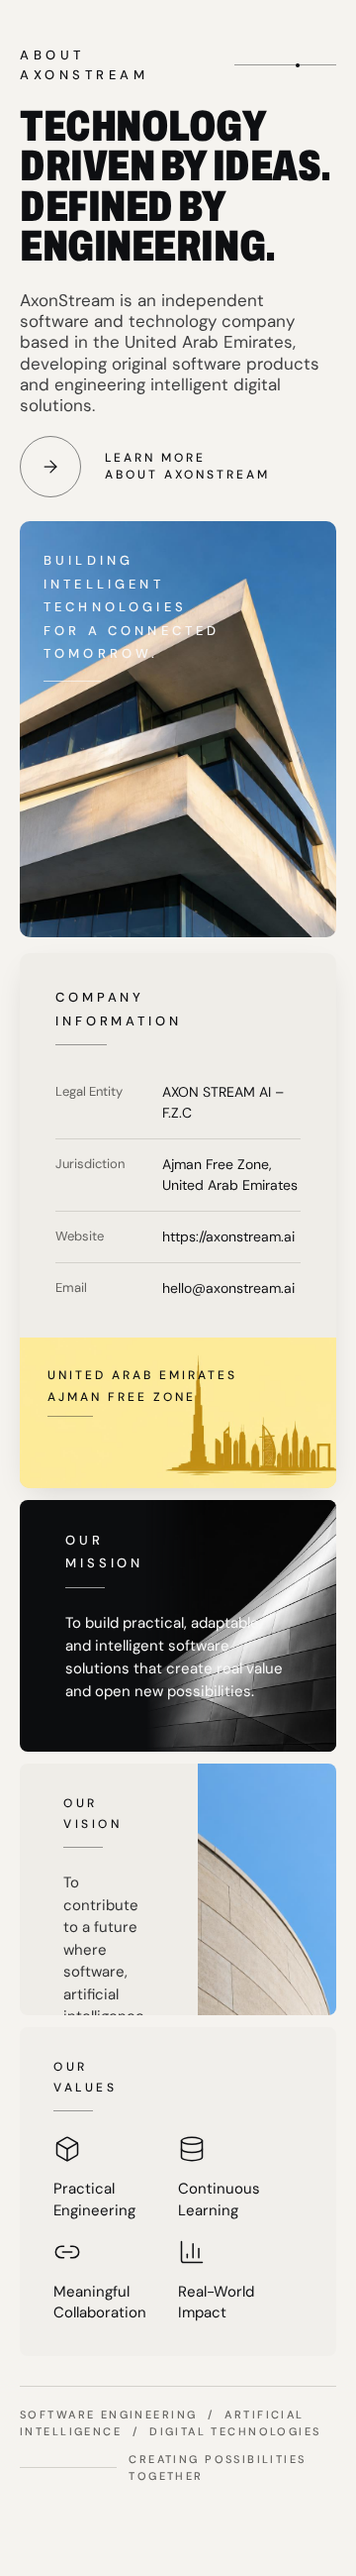
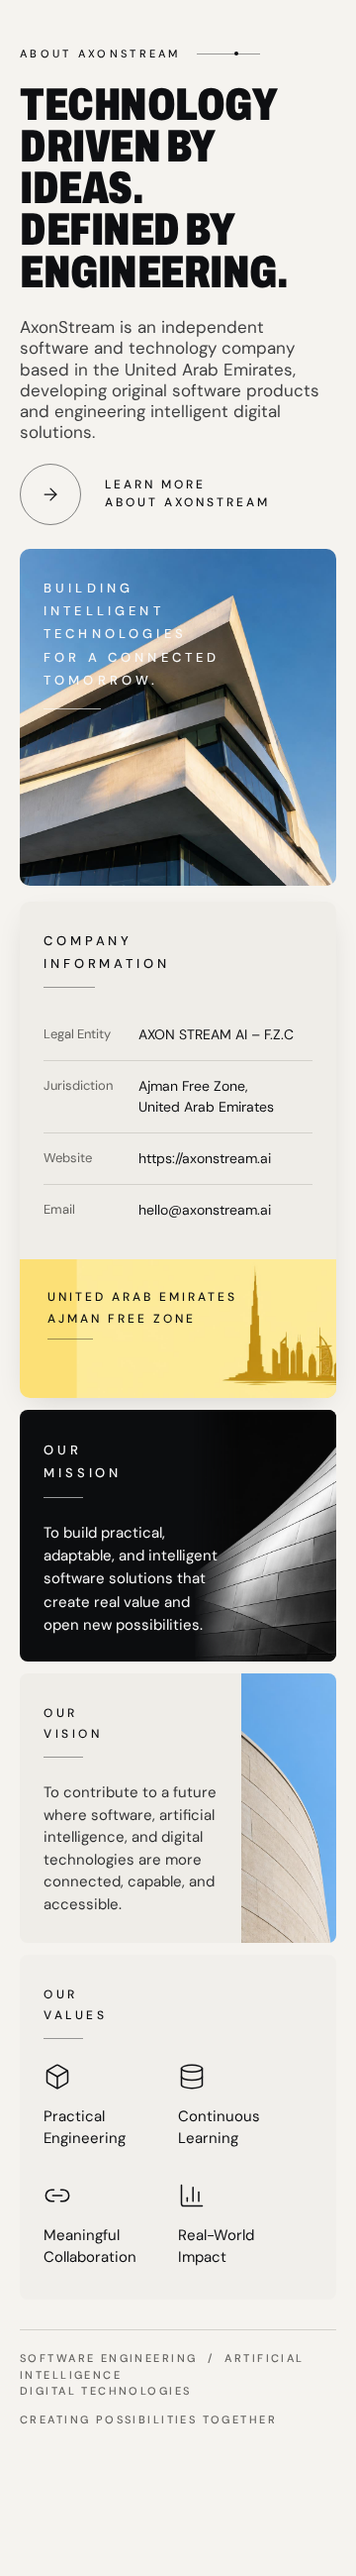
Changes

diff --git a/src/routes/index.tsx b/src/routes/index.tsx
@@ -45,9 +45,9 @@ function Index() {
         <div className="grid gap-6 lg:grid-cols-[655px_1fr]">
           <div className="pt-[28px] lg:pl-[45px]">
             <div className="flex items-center gap-4">
-              <span className="eyebrow text-[13px] tracking-[0.35em]">About AxonStream</span>
-              <span className="relative block h-px w-[105px] bg-foreground/40">
-                <span className="absolute left-[62px] -top-[1.5px] h-1 w-1 rounded-full bg-foreground" />
+              <span className="eyebrow text-[11px] sm:text-[13px] tracking-[0.3em] sm:tracking-[0.35em] whitespace-nowrap">About AxonStream</span>
+              <span className="relative block h-px w-[64px] sm:w-[105px] shrink-0 bg-foreground/40">
+                <span className="absolute left-[38px] sm:left-[62px] -top-[1.5px] h-1 w-1 rounded-full bg-foreground" />
               </span>
             </div>
             <h1 className="font-display mt-[22px] text-[46px] min-[400px]:text-[52px] sm:text-[76px] leading-[0.92] uppercase">
@@ -65,7 +65,7 @@ function Index() {
           </div>
 
           <div className="relative lg:pr-[0px]">
-            <div className="relative overflow-hidden rounded-[10px] lg:mr-[209px] h-[420px] lg:h-[547px]">
+            <div className="relative overflow-hidden rounded-[10px] lg:mr-[209px] h-[340px] sm:h-[420px] lg:h-[547px]">
               <img src={heroArch} alt="Angular modern architecture" width={1152} height={1088} className="h-full w-full object-cover" />
               <div className="absolute left-6 top-[28px] text-surface-dark-foreground">
                 <p className="eyebrow text-[13px] tracking-[0.32em] leading-[1.8]">Building<br />intelligent<br />technologies<br />for a connected<br />tomorrow.</p>
@@ -73,20 +73,20 @@ function Index() {
               </div>
             </div>
             <div className="mt-4 lg:mt-0 lg:absolute lg:right-0 lg:top-[28px] lg:w-[378px] rounded-[10px] overflow-hidden shadow-card">
-              <div className="bg-card px-9 pt-[33px] pb-6">
+              <div className="bg-card px-6 sm:px-9 pt-[28px] sm:pt-[33px] pb-6">
                 <p className="eyebrow text-[13px] tracking-[0.3em] leading-[1.8]">Company<br />information</p>
                 <Rule className="mt-3 w-[52px]" />
                 <dl className="mt-[22px]">
                   {info.map(([k, v], i) => (
-                    <div key={k} className={`grid grid-cols-[108px_1fr] py-[15px] ${i < info.length - 1 ? "border-b border-border" : ""}`}>
+                    <div key={k} className={`grid grid-cols-[96px_1fr] sm:grid-cols-[108px_1fr] py-[15px] ${i < info.length - 1 ? "border-b border-border" : ""}`}>
                       <dt className="text-[13px] text-muted-foreground">{k}</dt>
                       <dd className="text-[14px] whitespace-pre-line leading-[1.5]">{v}</dd>
                     </div>
                   ))}
                 </dl>
               </div>
-              <div className="relative h-[152px] bg-highlight overflow-hidden">
-                <img src={skyline} alt="" loading="lazy" className="absolute inset-0 h-full w-full object-cover object-right-bottom" />
+              <div className="relative h-[140px] sm:h-[152px] bg-highlight overflow-hidden">
+                <img src={skyline} alt="" loading="lazy" className="absolute inset-0 h-full w-full object-cover object-right-bottom translate-x-[18%] sm:translate-x-0" />
                 <div className="relative px-7 pt-[28px]">
                   <p className="eyebrow text-[12px] tracking-[0.25em] leading-[1.8]">United Arab Emirates<br />Ajman Free Zone</p>
                   <Rule className="mt-2 w-[46px]" />
@@ -99,25 +99,25 @@ function Index() {
         {/* Bottom cards */}
         <div id="mission" className="mt-[12px] grid gap-3 lg:grid-cols-[527px_494px_1fr]">
           <div className="relative overflow-hidden rounded-[8px] bg-surface-dark text-surface-dark-foreground h-[254px]">
-            <img src={mission} alt="" loading="lazy" className="absolute right-0 top-0 h-full w-[60%] object-cover [mask-image:linear-gradient(to_right,transparent,black_35%)]" />
-            <div className="relative px-[46px] pt-[30px]">
+            <img src={mission} alt="" loading="lazy" className="absolute right-0 top-0 h-full w-[45%] sm:w-[60%] object-cover [mask-image:linear-gradient(to_right,transparent,black_35%)]" />
+            <div className="relative px-6 sm:px-[46px] pt-[30px]">
               <p className="eyebrow text-[13px] tracking-[0.3em] leading-[1.75]">Our<br />mission</p>
               <Rule className="mt-3 w-[38px] opacity-60" />
-              <p className="mt-6 text-[15px] leading-[1.55] max-w-[260px]">To build practical, adaptable, and intelligent software solutions that create real value and open new possibilities.</p>
+              <p className="mt-6 text-[15px] leading-[1.55] max-w-[180px] sm:max-w-[260px]">To build practical, adaptable, and intelligent software solutions that create real value and open new possibilities.</p>
             </div>
           </div>
-          <div className="grid grid-cols-[1fr_181px] overflow-hidden rounded-[8px] bg-card h-[254px]">
-            <div className="px-[44px] pt-[30px]">
+          <div className="grid grid-cols-[minmax(0,1fr)_96px] sm:grid-cols-[minmax(0,1fr)_181px] overflow-hidden rounded-[8px] bg-card min-h-[254px]">
+            <div className="min-w-0 px-6 sm:px-[44px] pt-[30px] pb-7">
               <p className="eyebrow text-[12px] tracking-[0.3em] leading-[1.75]">Our<br />vision</p>
               <Rule className="mt-3 w-[38px]" />
               <p className="mt-6 text-[15px] leading-[1.5] text-foreground/85">To contribute to a future where software, artificial intelligence, and digital technologies are more connected, capable, and accessible.</p>
             </div>
             <img src={vision} alt="" loading="lazy" className="h-full w-full object-cover" />
           </div>
-          <div className="rounded-[8px] bg-card/60 px-[34px] pt-[30px] pb-6 min-h-[254px]">
+          <div className="rounded-[8px] bg-card/60 px-6 sm:px-[34px] pt-[30px] pb-6 min-h-[254px]">
             <p className="eyebrow text-[12px] tracking-[0.3em] leading-[1.75]">Our<br />values</p>
             <Rule className="mt-3 w-[38px]" />
-            <div className="mt-4 grid grid-cols-2 sm:grid-cols-4">
+            <div className="mt-4 grid grid-cols-2 gap-y-4 sm:grid-cols-4">
               {values.map(([Icon, label], i) => (
                 <div key={label} className={`py-2 ${i ? "sm:border-l border-border sm:pl-7" : ""}`}>
                   <Icon className="h-7 w-7" strokeWidth={1.3} />
@@ -129,9 +129,9 @@ function Index() {
         </div>
 
         <footer className="mt-[30px] border-t border-border pt-5 flex flex-wrap justify-between gap-3 text-muted-foreground">
-          <p className="eyebrow text-[11px] tracking-[0.22em]">Software engineering &nbsp;/&nbsp; Artificial intelligence &nbsp;/&nbsp; Digital technologies</p>
+          <p className="eyebrow text-[11px] tracking-[0.22em]">Software engineering &nbsp;/&nbsp; Artificial intelligence <span className="hidden sm:inline">&nbsp;/&nbsp; </span><br className="sm:hidden" />Digital technologies</p>
           <div className="flex items-center gap-3">
-            <span className="h-px w-[122px] bg-border" />
+            <span className="hidden sm:block h-px w-[122px] bg-border" />
             <p className="eyebrow text-[11px] tracking-[0.22em]">Creating possibilities together</p>
           </div>
         </footer>
